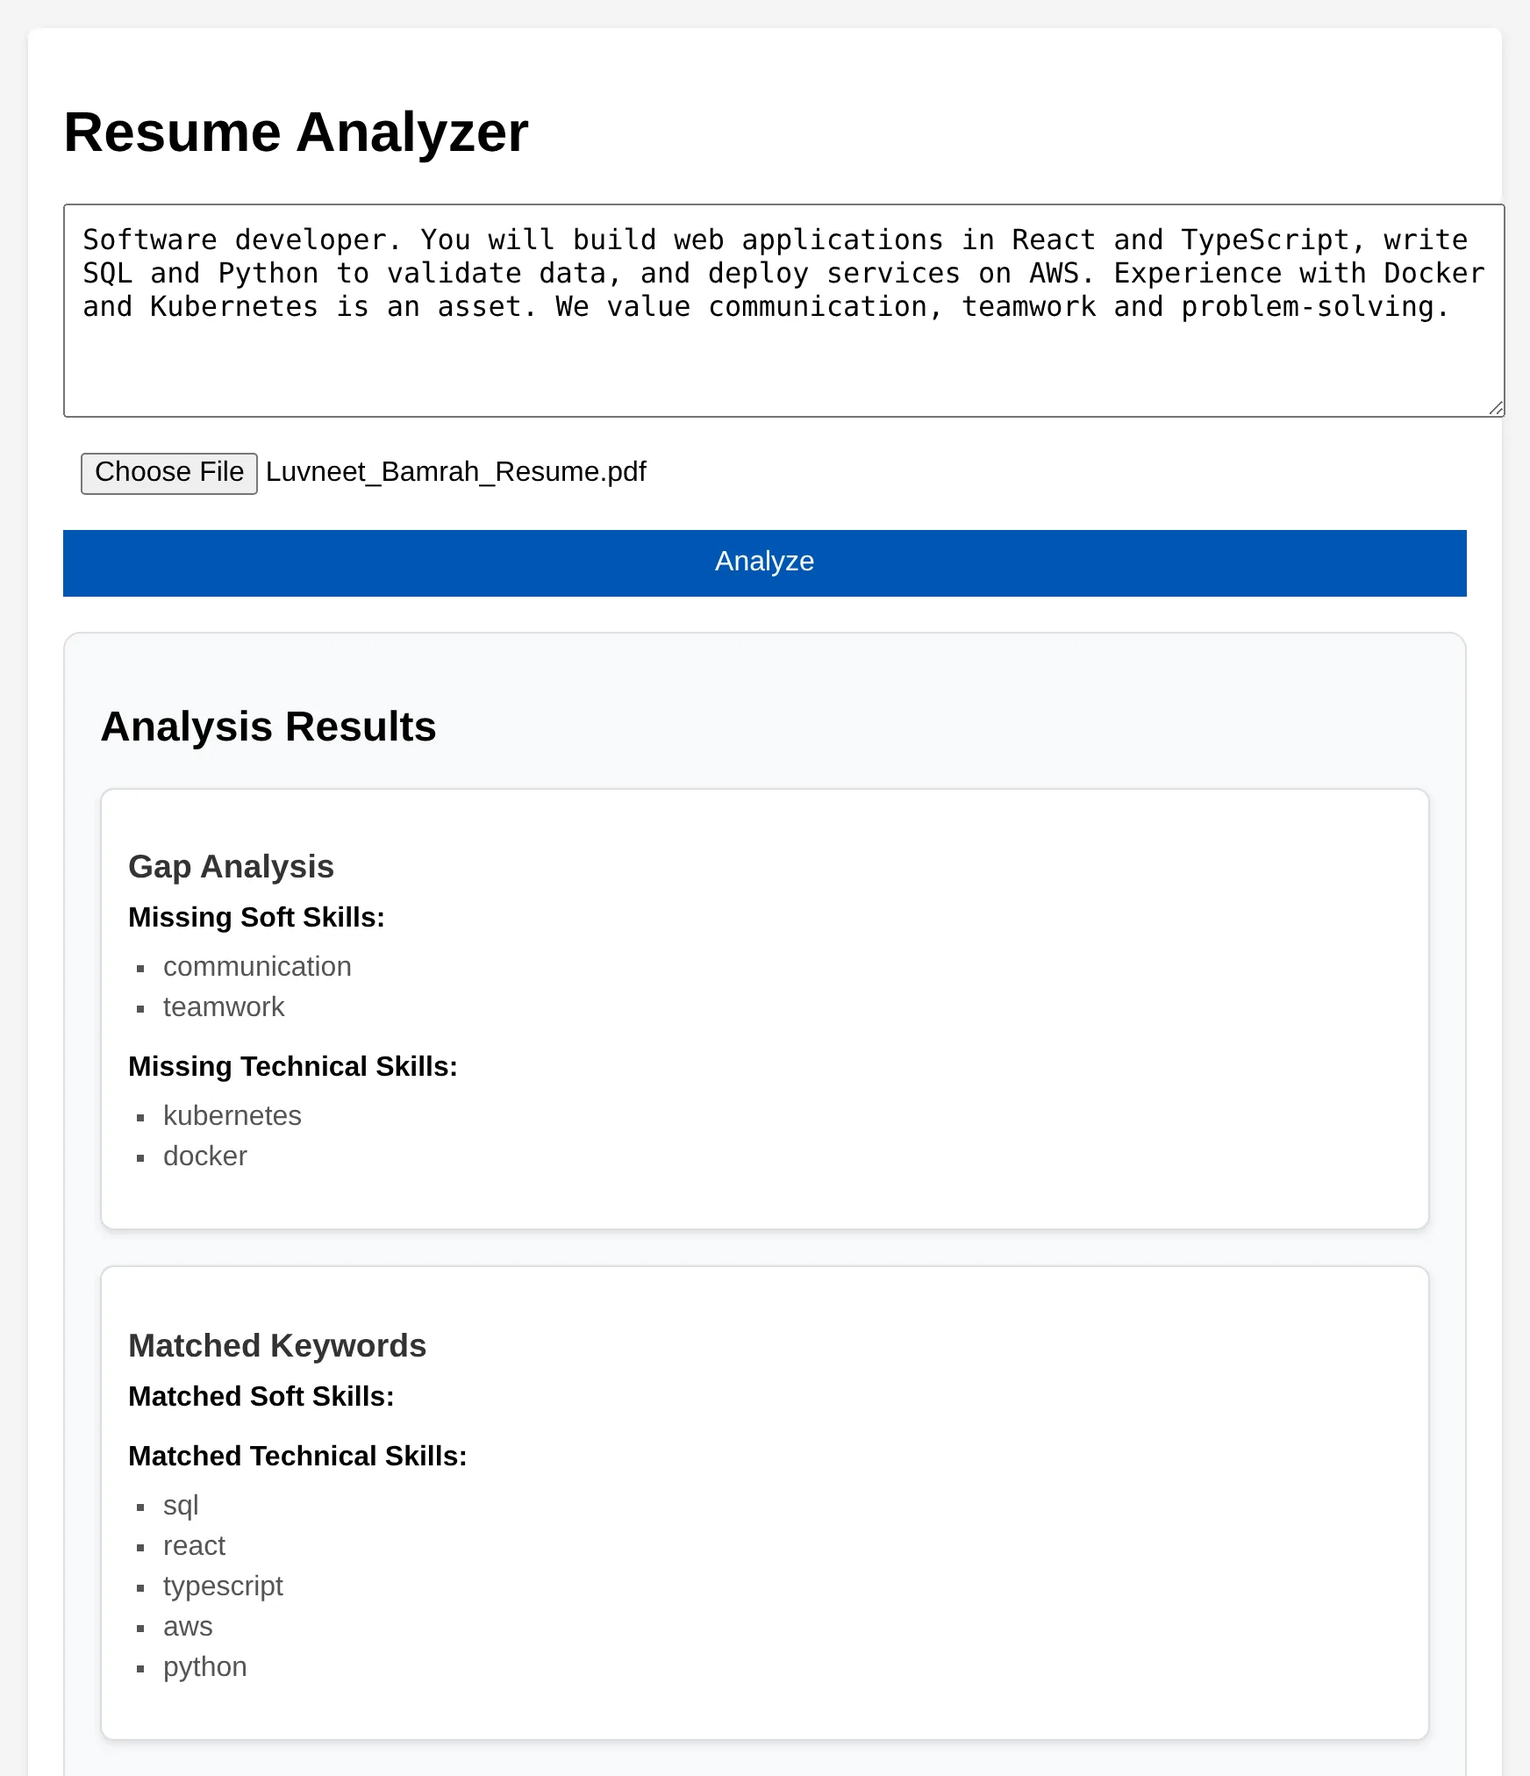
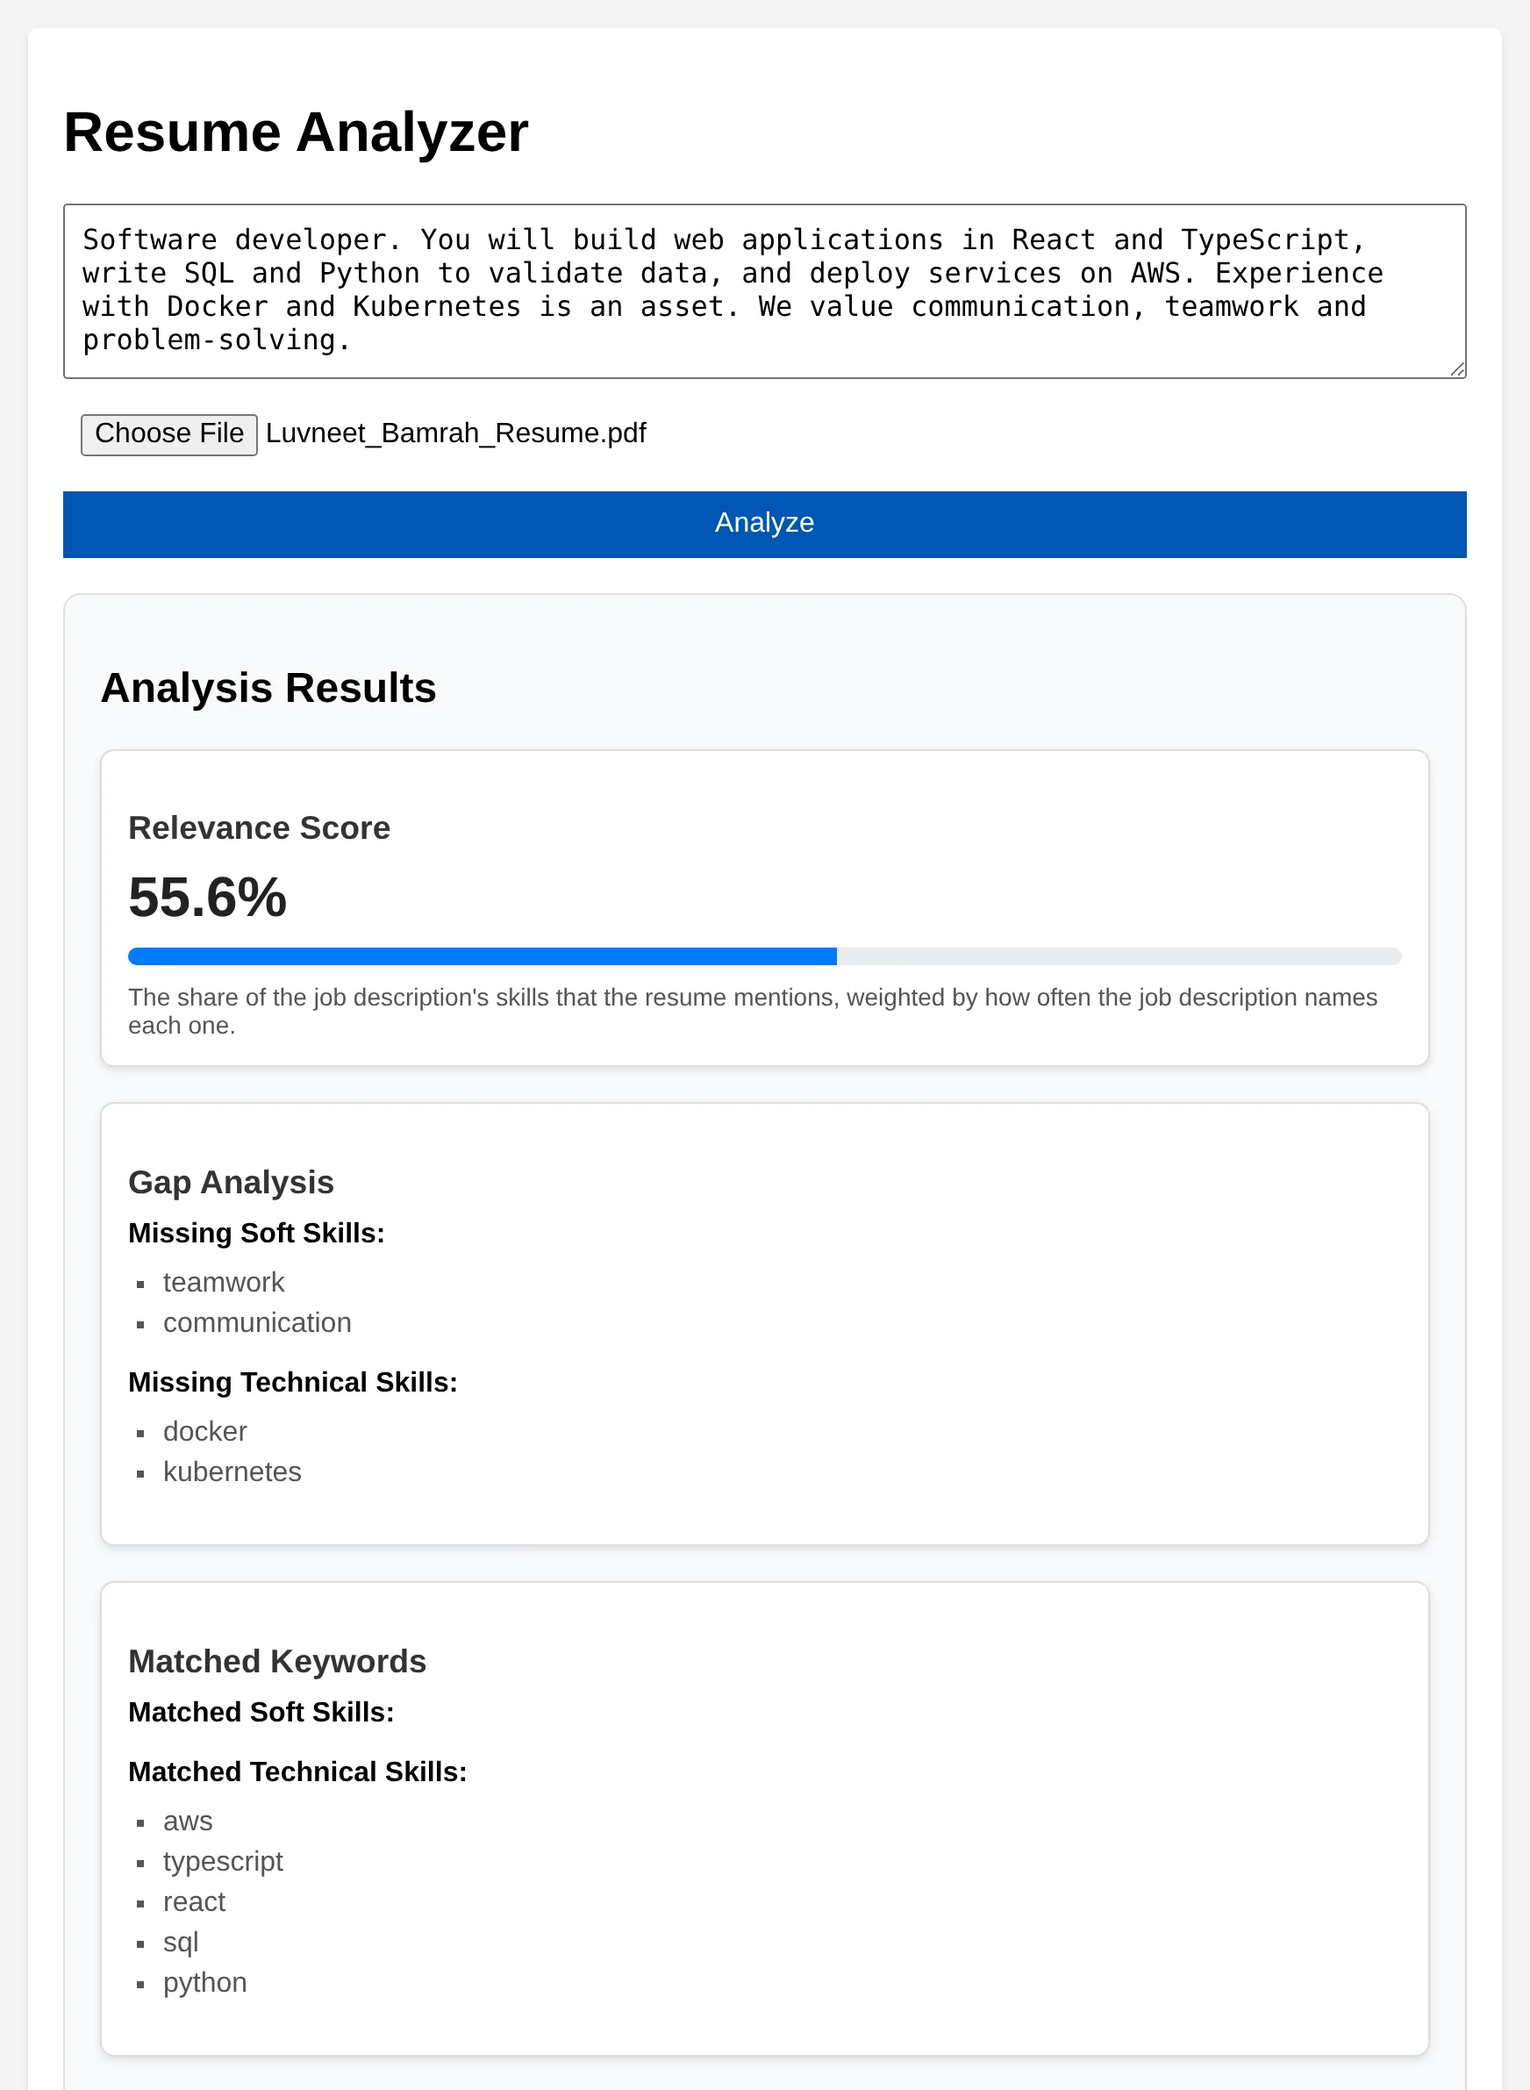
Restore the resume figures; mark professional work; show the restored score
- The 75%, 50% and 40% figures are back, quoted in the resume's own words and
  set in semibold where they appear.
- The Immensa inquiry app, the monitoring dashboards and the sensor management
  system are labelled as professional work.
- Resume Analyzer: its relevance score is restored (NotLuvii/Resume-Analyze
  3f5dff6), so the card, case study, code excerpt and screenshot now show the
  score, and the limitations that update fixed are gone.

Claude-Session: https://claude.ai/code/session_01DyTmCnBtUaH1r7THVGZYdj

diff --git a/src/content/projects.ts b/src/content/projects.ts
@@ -179,7 +179,7 @@ const scam: FeaturedProject = {
 const immensa: FeaturedProject = {
   slug: "immensa-inquiry-app",
   title: "Immensa inquiry app",
-  kind: "Android app",
+  kind: "Professional app",
   year: "2024",
   team: "Solo",
   summary:
@@ -274,11 +274,11 @@ const resume: FeaturedProject = {
   year: "2024",
   team: "Solo",
   summary:
-    "Compares a résumé (PDF or Word) with a job description and lists the shared skills, the missing ones, and interview questions for the role.",
-  built: "A Flask web app with PDF and Word parsing, rebuilt from an earlier Tkinter desktop version.",
+    "Compares a résumé (PDF or Word) with a job description and gives a relevance score, the shared and missing skills, and interview questions for the role.",
+  built: "A Flask web app and a Tkinter desktop app with charts, sharing one Python backend that parses PDF and Word files.",
   decision: "Skills are matched against curated lists of 279 technical and 49 soft skills, so ordinary words never count as skills.",
-  result: "On my résumé and a sample posting, it found five shared technical skills and flagged Docker and Kubernetes as missing.",
-  stack: ["Python", "Flask", "PyMuPDF", "python-docx", "JavaScript"],
+  result: "On my résumé and a sample posting, it scored 55.6%: five of the posting’s nine skills found, Docker and Kubernetes flagged as missing.",
+  stack: ["Python", "Flask", "PyMuPDF", "python-docx", "Tkinter", "Matplotlib", "pytest", "JavaScript"],
   repo: { label: "Code on GitHub", href: `${GH}/Resume-Analyze` },
   availability: "No live demo; it runs locally with Flask.",
   caseStudy: {
@@ -288,10 +288,12 @@ const resume: FeaturedProject = {
     ],
     role: "Solo: the desktop version and the web version.",
     built: [
-      "Desktop version (November 2024): a Tkinter app with drag-and-drop résumés, a results table and Matplotlib charts. It’s still in the repository as main.py.",
-      "Web version (December 2024): a Flask endpoint, POST /upload, that takes the posting and a résumé, reads PDFs with PyMuPDF and Word files with python-docx, and returns the analysis as JSON to a small JavaScript front end.",
+      "Relevance score: each skill in the job description is weighted by how often the description names it, counting whole words, and the score is the weighted share of those skills the résumé also mentions, from 0 to 100%.",
+      "Desktop version (November 2024): a Tkinter app with drag-and-drop résumés, a results table with each résumé’s score, and Matplotlib charts of matched skills and the spread of scores.",
+      "Web version (December 2024): a Flask endpoint, POST /upload, that takes the posting and a résumé, reads PDFs with PyMuPDF and Word files with python-docx, and returns the analysis as JSON to a small JavaScript front end that shows the score as a bar.",
       "Skill extraction: the text is lower-cased, punctuation and stop words are removed, and the words that remain are kept only if they appear in the technical or soft-skill list.",
       "Interview questions from templates for each skill found in the posting, followed by general, behavioural and technical questions.",
+      "October 2026 update: the score restored in both versions, the desktop version brought back in line with the current backend, and tests added (pytest) for the scoring, the web endpoint and the desktop window.",
     ],
     decision: {
       title: "Curated skill lists instead of word overlap",
@@ -300,8 +302,8 @@ const resume: FeaturedProject = {
         "The cost is coverage: a skill that isn’t on a list is never found, and synonyms aren’t recognised. The README lists this as a known issue.",
       ],
       code: {
-        file: "backend/analyzer.py, lines 136–146",
-        href: `${GH}/Resume-Analyze/blob/main/backend/analyzer.py#L136-L146`,
+        file: "backend/analyzer.py, lines 143–154",
+        href: `${GH}/Resume-Analyze/blob/main/backend/analyzer.py#L143-L154`,
         language: "python",
         code: `def extract_keywords_pipeline(text):
     text = re.sub(r"[^\\w\\s]", "", text.lower())
@@ -312,33 +314,35 @@ const resume: FeaturedProject = {
 
     return {
         "technical_skills": sorted(set(technical_skills)),
-        "soft_skills": sorted(set(soft_skills))
+        "soft_skills": sorted(set(soft_skills)),
+        "weights": calculate_keyword_weights(text)
     }`,
-        caption: "Skill extraction: words are kept only if they’re on one of the two lists.",
+        caption: "Skill extraction: words are kept only if they’re on one of the two lists, and each skill’s weight for the score comes from how often the posting names it.",
       },
     },
     outcome: [
-      "The screenshot compares my own résumé with a short sample posting. The tool found SQL, React, TypeScript, AWS and Python in both; it listed Docker and Kubernetes as missing technical skills, and communication and teamwork as missing soft skills, since my résumé doesn’t use those words.",
+      "The screenshot compares my own résumé with a short sample posting that names nine listed skills once each. The tool scored it 55.6%: it found SQL, React, TypeScript, AWS and Python in both, listed Docker and Kubernetes as missing technical skills, and communication and teamwork as missing soft skills, since my résumé doesn’t use those words.",
+      "Twelve automated tests cover the weighting (including that short skill names like R are counted as whole words), the score from 0 to 100%, the web endpoint and the desktop window.",
     ],
     limitations: [
       "Text is split into single words before matching, so list entries with spaces or punctuation can’t match: 58 of the 279 technical entries, including Power BI, C++ and scikit-learn, and 25 of the 49 soft skills, including problem-solving. In the screenshot, “problem-solving” is in the posting but isn’t reported.",
-      "The desktop version calls the parser with an older signature, so as the code stands only the web version runs.",
-      "There are no automated tests.",
+      "Only listed skills count towards the score, so a posting whose requirements aren’t on the lists scores 0.",
     ],
     figuresNote: "Screenshot of the web version running locally, October 2026.",
     figures: [
       {
         src: "/images/resume-analyzer/results",
         width: 872,
-        height: 1012,
-        alt: "The Resume Analyzer web page. A sample job description is in the text box and Luvneet_Bamrah_Resume.pdf is selected. Gap analysis lists communication and teamwork as missing soft skills and Kubernetes and Docker as missing technical skills; matched technical skills are SQL, React, TypeScript, AWS and Python.",
+        height: 1191,
+        alt: "The Resume Analyzer web page. A sample job description is in the text box and Luvneet_Bamrah_Resume.pdf is selected. The relevance score is 55.6 percent, shown with a bar. Gap analysis lists teamwork and communication as missing soft skills and Docker and Kubernetes as missing technical skills; matched technical skills are AWS, TypeScript, React, SQL and Python.",
         caption:
-          "My résumé against a sample posting: “Software developer. You will build web applications in React and TypeScript, write SQL and Python to validate data, and deploy services on AWS. Experience with Docker and Kubernetes is an asset. We value communication, teamwork and problem-solving.”",
+          "My résumé scored 55.6% against a sample posting: “Software developer. You will build web applications in React and TypeScript, write SQL and Python to validate data, and deploy services on AWS. Experience with Docker and Kubernetes is an asset. We value communication, teamwork and problem-solving.”",
       },
     ],
     files: [
       { label: "Skill lists and matching: backend/analyzer.py", href: `${GH}/Resume-Analyze/blob/main/backend/analyzer.py` },
       { label: "Web endpoint: app.py", href: `${GH}/Resume-Analyze/blob/main/app.py` },
+      { label: "Tests: tests/test_scoring.py", href: `${GH}/Resume-Analyze/blob/main/tests/test_scoring.py` },
     ],
   },
 };
@@ -358,12 +362,15 @@ export const featured: FeaturedProject[] = [scam, immensa, resume];
 export const more: MoreProject[] = [
   {
     title: "Monitoring and reporting dashboards",
-    summary: "Dashboards with clearer monitoring views, and root-cause fixes for data display issues.",
+    kind: "Professional project",
+    summary:
+      "Reduced troubleshooting effort by 40% by improving monitoring views, interface clarity and system transparency, with root-cause fixes for data display issues.",
     links: [],
     note: "Code not public",
   },
   {
     title: "Sensor management system",
+    kind: "Professional project",
     summary: "Sensor health in one place, automated fault detection, role-based access and real-time status views.",
     links: [],
     note: "Code not public",

diff --git a/tests/content.test.ts b/tests/content.test.ts
@@ -103,6 +103,30 @@ describe("screenshots", () => {
   });
 });
 
+describe("professional work", () => {
+  it("labels the Immensa app, the dashboards and the sensor system as professional", () => {
+    expect(featured.find((p) => p.slug === "immensa-inquiry-app")?.kind).toBe("Professional app");
+    for (const title of ["Monitoring and reporting dashboards", "Sensor management system"]) {
+      expect(more.find((p) => p.title === title)?.kind, title).toBe("Professional project");
+    }
+  });
+});
+
+describe("Resume Analyzer", () => {
+  const p = featured.find((f) => f.slug === "resume-analyzer")!;
+
+  it("describes the restored relevance score and the result in the screenshot", () => {
+    expect(p.summary).toMatch(/relevance score/);
+    expect(p.result).toContain("55.6%");
+    expect(p.caseStudy.figures[0].caption).toContain("55.6%");
+  });
+
+  it("no longer lists limitations that the October 2026 update fixed", () => {
+    const limits = p.caseStudy.limitations.join(" ");
+    expect(limits).not.toMatch(/no automated tests|only the web version runs/);
+  });
+});
+
 describe("more projects", () => {
   it("only link where there is a verified destination, and say why when there isn't", () => {
     for (const p of more) {
@@ -175,8 +199,16 @@ describe("claims", () => {
     .map((f) => readFileSync(f, "utf8"))
     .join("\n");
 
-  it("states no percentage improvement whose basis can't be shown yet", () => {
-    for (const claim of ["75%", "50%", "40%"]) expect(text).not.toContain(claim);
+  it("states each résumé figure once, in the résumé's own words", () => {
+    const figures = {
+      "75%": "Increased route data accuracy by 75% through systematic data validation and alignment of system logic.",
+      "50%": "Reduced delivery delays by 50% by optimizing front-end workflows and presenting data more clearly.",
+      "40%": "Reduced troubleshooting effort by 40% by improving monitoring views, interface clarity and system transparency",
+    };
+    for (const [figure, sentence] of Object.entries(figures)) {
+      expect(text).toContain(sentence);
+      expect(text.split(figure).length - 1, figure).toBe(1);
+    }
   });
 
   it("presents no illustrated interfaces or sample data as evidence", () => {

diff --git a/src/content/experience.ts b/src/content/experience.ts
@@ -1,7 +1,6 @@
 /**
  * Work history, education, skills and the short background, from the résumé
- * (public/Luvneet_Bamrah_Resume.pdf). The résumé's percentages are left out here until their
- * baseline and method can be stated.
+ * (public/Luvneet_Bamrah_Resume.pdf). Figures are quoted in the résumé's own words.
  */
 export type Role = {
   organization: string;
@@ -34,7 +33,7 @@ export const roles: Role[] = [
     place: "Fredericton, NB",
     points: [
       "Built real-time tracking and monitoring workflows on AWS API Gateway WebSockets, streaming live driver and location updates.",
-      "Improved the accuracy of route data by validating it and aligning the system logic that used it.",
+      "Increased route data accuracy by 75% through systematic data validation and alignment of system logic.",
       "Turned safety and stakeholder requirements into functional specifications and components.",
     ],
   },
@@ -46,7 +45,7 @@ export const roles: Role[] = [
     points: [
       "Replaced a manual email report with scheduled SQL notifications and Databricks outputs built into generated reports.",
       "Wrote SQL to check report figures against source systems and trace discrepancies to their root cause.",
-      "Optimized front-end workflows and presented data more clearly, which reduced delivery delays.",
+      "Reduced delivery delays by 50% by optimizing front-end workflows and presenting data more clearly.",
     ],
   },
 ];

diff --git a/src/components/sections/Projects.tsx b/src/components/sections/Projects.tsx
@@ -1,6 +1,7 @@
 import Link from "next/link";
 import { featured, more, projectHref, type FeaturedProject, type MoreProject } from "@/content/projects";
 import { site } from "@/content/site";
+import { Figures } from "@/components/ui/Figures";
 import { ButtonLink, TextLink } from "@/components/ui/links";
 import { Reveal } from "@/components/ui/Reveal";
 import { Screenshot } from "@/components/ui/Screenshot";
@@ -108,7 +109,9 @@ function MoreRow({ p }: { p: MoreProject }) {
         <h4 className="text-[17px] font-semibold tracking-[-0.018em] text-ink">{p.title}</h4>
         {meta && <p className="type-caption text-ash">{meta}</p>}
       </div>
-      <p className="type-small mt-1 text-ash">{p.summary}</p>
+      <p className="type-small mt-1 text-ash">
+        <Figures text={p.summary} />
+      </p>
       <div className="mt-1 flex flex-wrap items-center gap-x-5">
         {p.links.map((l) => (
           <TextLink key={l.href} href={l.href} external className="type-small">

diff --git a/src/components/sections/Experience.tsx b/src/components/sections/Experience.tsx
@@ -1,4 +1,5 @@
 import { roles } from "@/content/experience";
+import { Figures } from "@/components/ui/Figures";
 import { Reveal } from "@/components/ui/Reveal";
 
 export function Experience() {
@@ -24,7 +25,9 @@ export function Experience() {
                   {r.points.map((point) => (
                     <li key={point} className="flex gap-3">
                       <span aria-hidden className="mt-[0.7em] size-1 shrink-0 rounded-full bg-ash" />
-                      <span>{point}</span>
+                      <span>
+                        <Figures text={point} />
+                      </span>
                     </li>
                   ))}
                 </ul>

diff --git a/src/components/ui/Figures.tsx b/src/components/ui/Figures.tsx
@@ -1,0 +1,18 @@
+import { Fragment } from "react";
+
+/** Sets percentages in a sentence in semibold, so measured results stand out when skimming. */
+export function Figures({ text }: { text: string }) {
+  return (
+    <>
+      {text.split(/(\d+(?:\.\d+)?%)/).map((part, i) =>
+        i % 2 ? (
+          <strong key={i} className="font-semibold text-ink">
+            {part}
+          </strong>
+        ) : (
+          <Fragment key={i}>{part}</Fragment>
+        ),
+      )}
+    </>
+  );
+}

diff --git a/README.md b/README.md
@@ -24,7 +24,7 @@ Rules the content follows, enforced by `tests/content.test.ts`:
 
 - Every project link goes to a specific repository or page that was checked by hand. Private
   repositories and projects without public code get a note instead of a link.
-- No percentage improvement is stated until its baseline and method can be explained.
+- Each figure from the résumé (75%, 50%, 40%) appears once, in the résumé's own words.
 - Every screenshot is a real capture, exists at 1x and 2x with the size declared in
   `projects.ts`, and has alt text and a caption saying what it shows.
 
